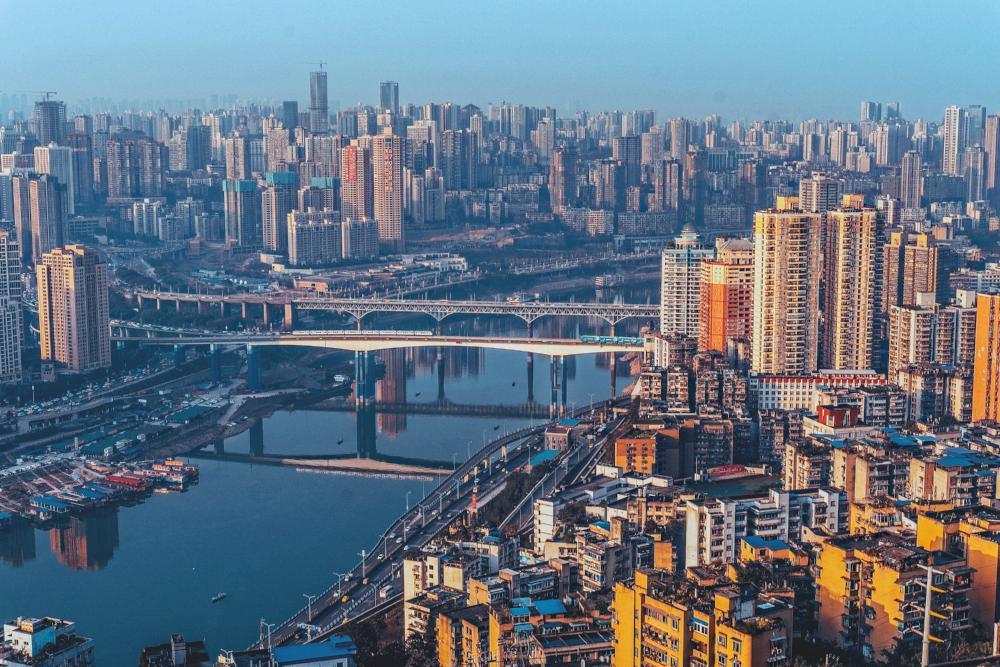
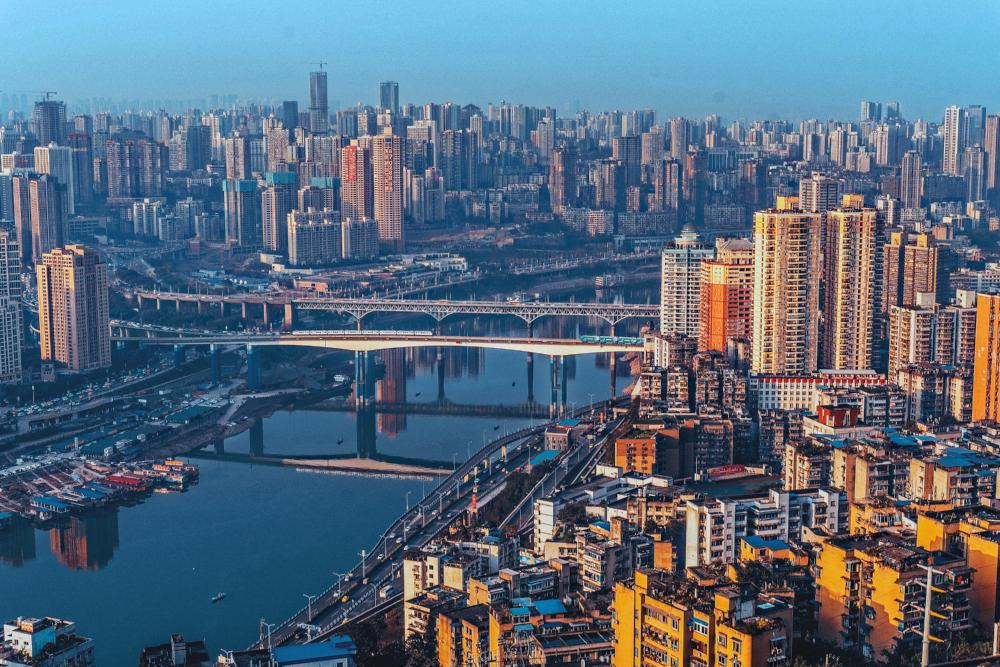
modify strength parameter

diff --git a/dehaze.py b/dehaze.py
@@ -32,8 +32,8 @@ image='images/landscape.jpg'
 w=4
 # window size (positive integer) for guided filter
 w2=3*w
-# strength of the dahazing effect 0 <= stength <= 1 (is one in the original paper)
-strength=0.8
+# strength of the dahazing effect 0 <= stength <= 1 (is 0.95 in the original paper)
+strength=0.85
 
 
 # guided image filter as decribed in
@@ -105,7 +105,7 @@ In=sum(I, axis=2)/3
 
 k0, k1=np.unravel_index(argmax(haze_pixel*In), In.shape)
 A0=I[k0, k1, :]
-t=dehaze.transition_map(I, A0, w)
+t=dehaze.transition_map(I, A0, w, strength)
 figure()
 io.imshow(t)
 title('transition map')
@@ -116,7 +116,6 @@ show(False)
 
 t=dehaze.min_filter(t, w)
 t=guidedfilter(I, t, w2, 0.001)
-t=1+strength*(t-1)
 t[t<0.025]=0.025
 figure()
 io.imshow(t)
